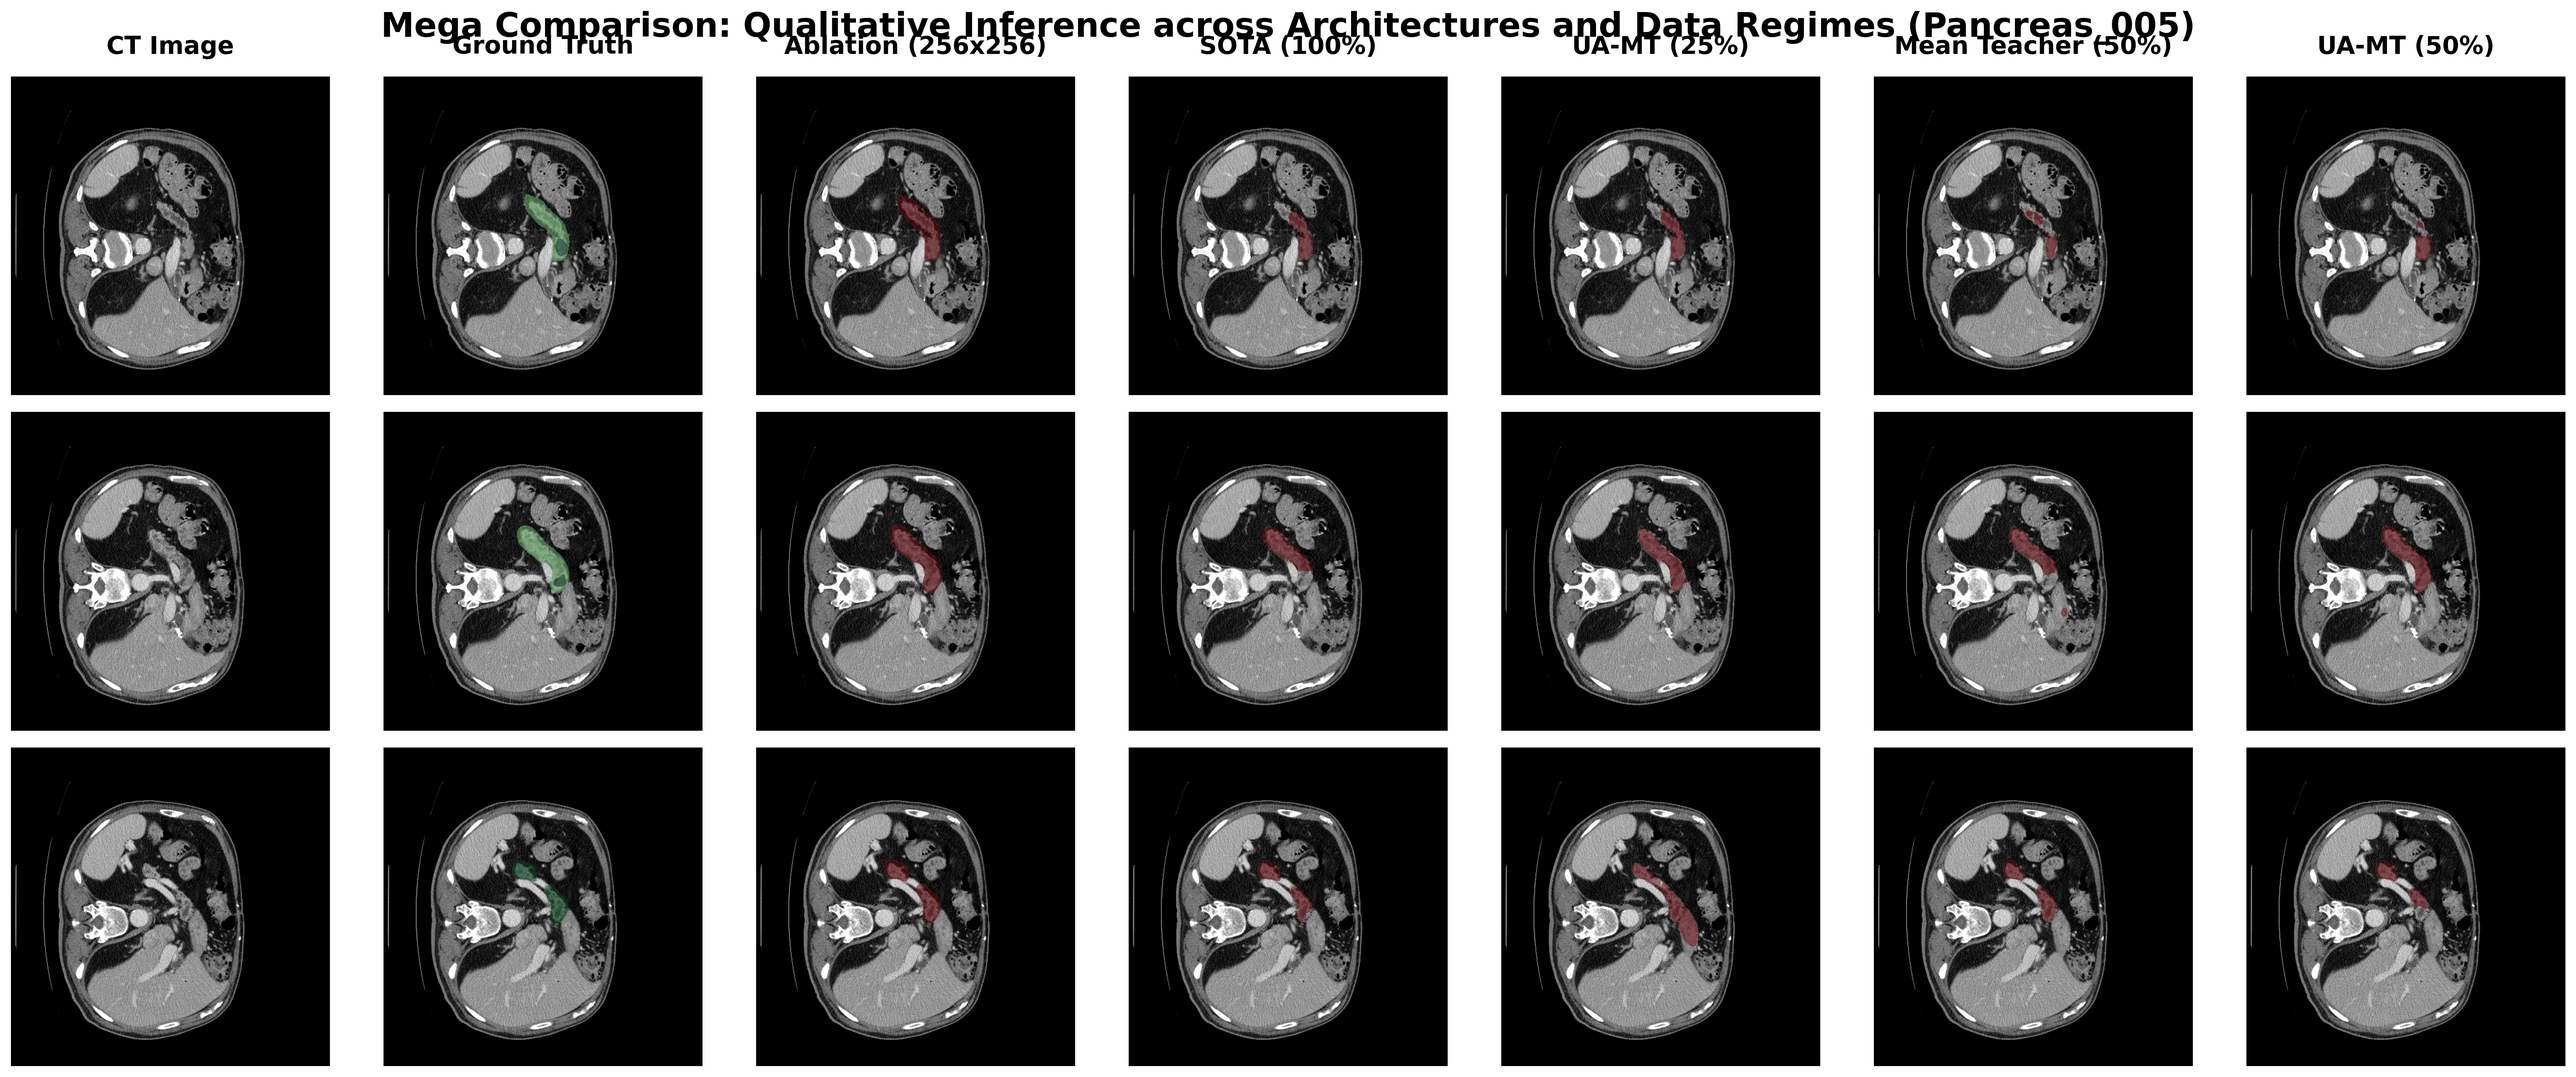
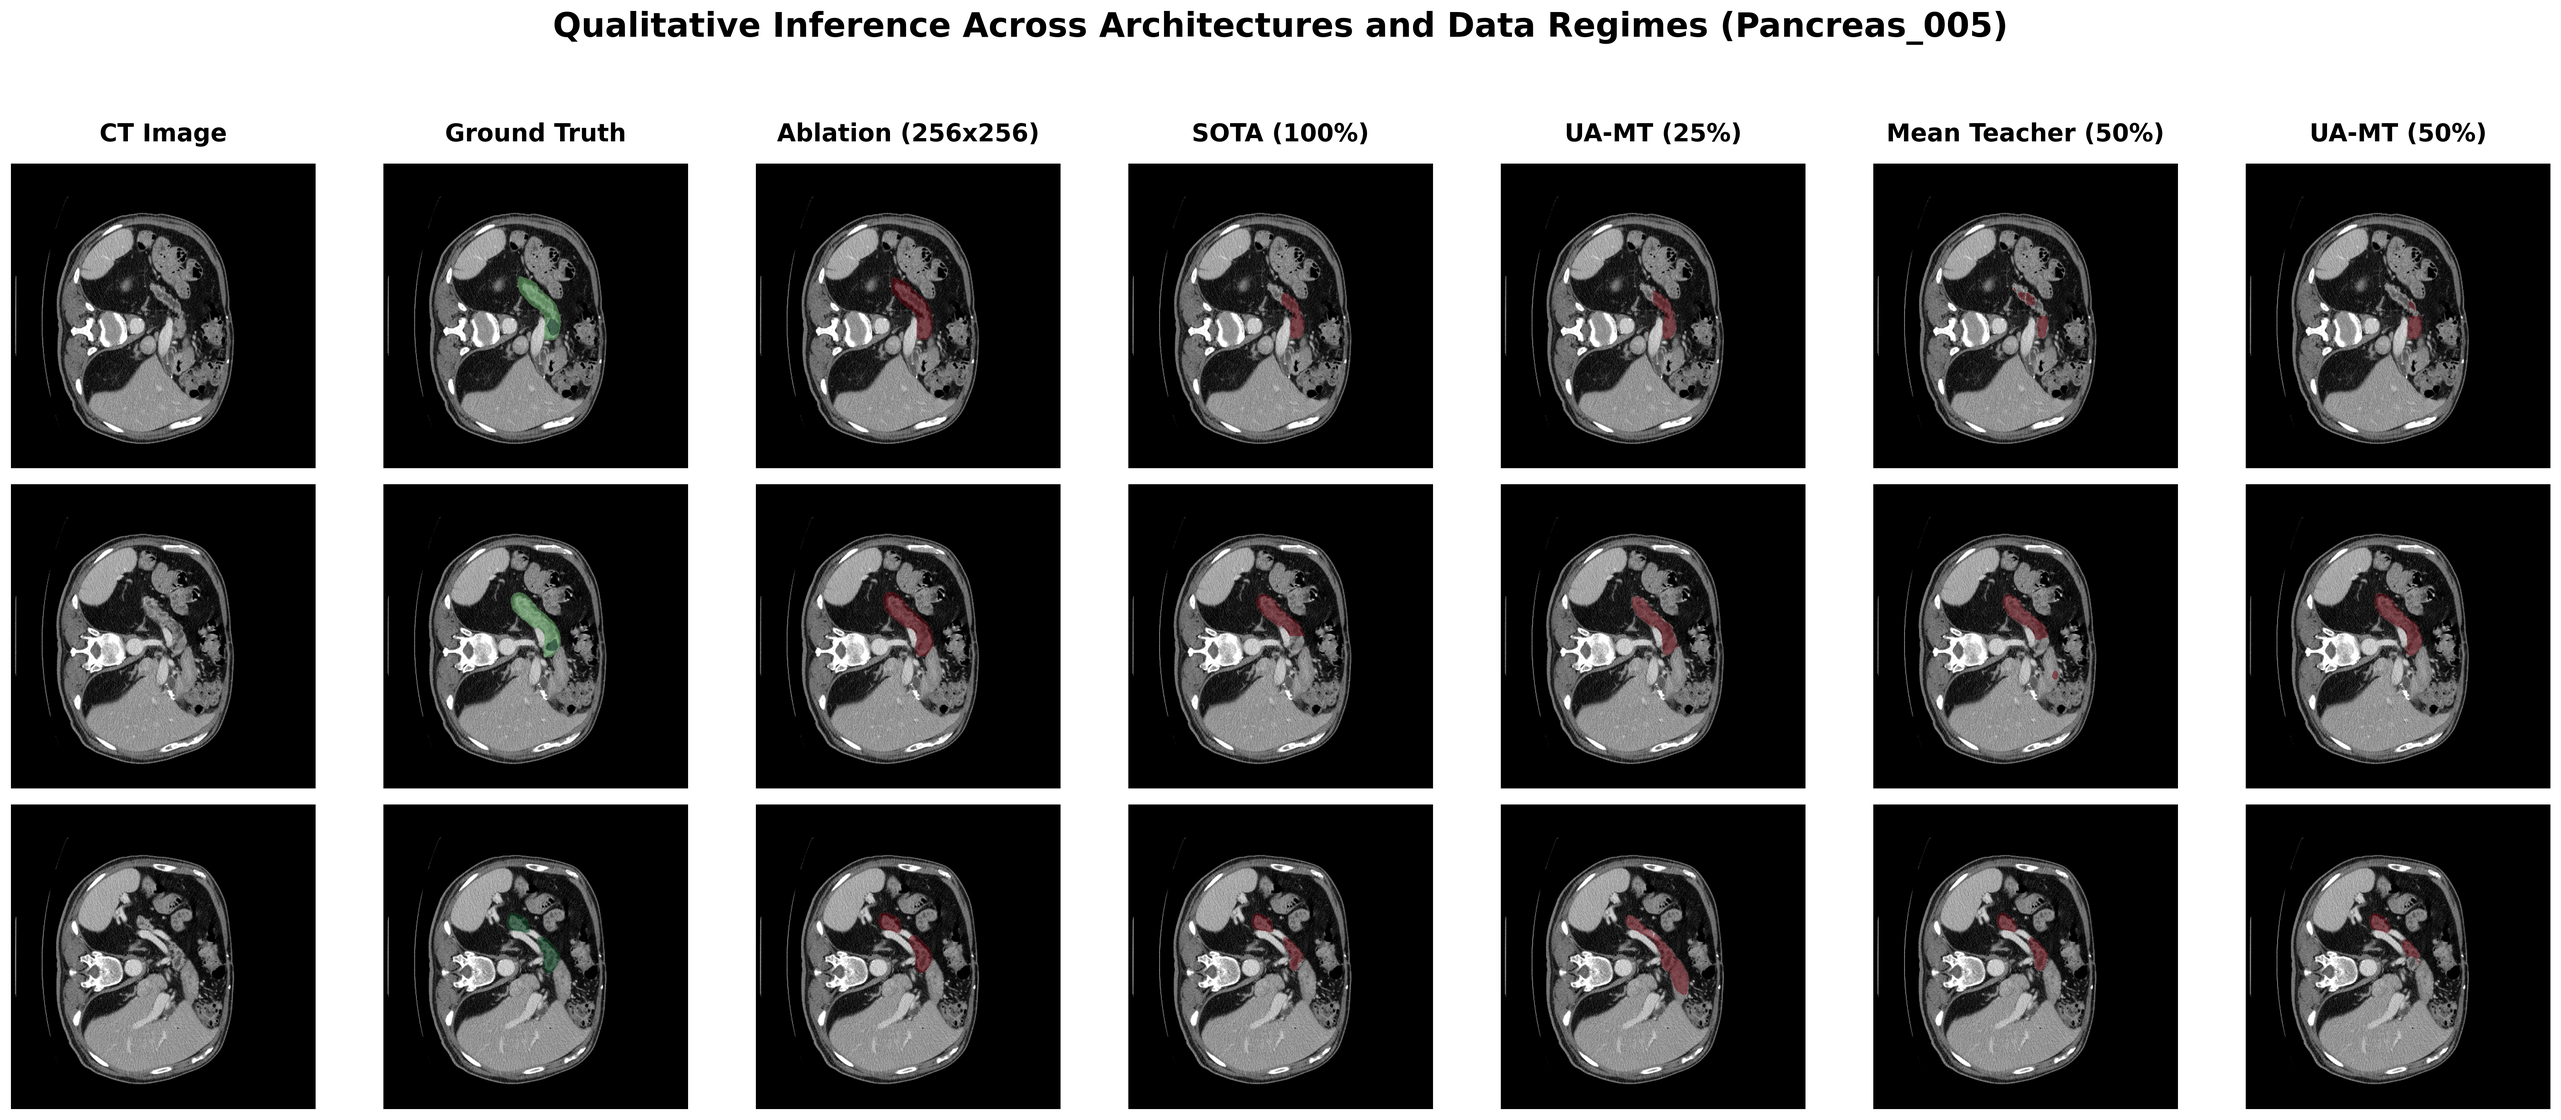
Refine mega plot formatting and truncate SSL curves to epoch 68

diff --git a/baseline/paper/journal_manuscript.tex b/baseline/paper/journal_manuscript.tex
@@ -120,12 +120,12 @@ UA-MT           & \textbf{0.3965}      & \textbf{0.4836}      & \textbf{0.4792} 
 
 These results confirm that UA-MT consistently dominates other SSL approaches, particularly in extremely low-data regimes. At just 10\% labeled data, UA-MT approaches the performance of Mean Teacher at 25\%, effectively halving the required annotation effort. This "doubling of efficiency" is even more pronounced at the 25\% ratio, where the UA-MT model (0.4836 IoU) outperforms the standard Mean Teacher model even when the latter has access to 50\% of the labeled data (0.4571 IoU). This substantial gain is driven by the uncertainty-filtering mechanism, which prevents the student model from over-fitting to the teacher's incorrect predictions in low-contrast regions.
 
-Furthermore, we observed that CPS requires a larger "warm-up" labeled set to stabilize. At 10\% and 25\%, CPS significantly trailed behind UA-MT, as the mutual-supervision between two weakly-initialized networks often leads to representation collapse. Only at 50\% did CPS reach a stable IoU of 0.3997, though it remained inferior to the consistency-based UA-MT framework.
+Furthermore, we observed that CPS requires a larger "warm-up" labeled set to stabilize. At 10\% and 25\%, CPS significantly trailed behind UA-MT, as the mutual-supervision between two weakly-initialized networks often leads to representation collapse. Only at 50\% did CPS reach a stable IoU of 0.3997, though it remained inferior to the consistency-based UA-MT framework. Figure~\ref{fig:ssl_curves} visualizes the learning dynamics of these frameworks. The training curves are presented up to Epoch 68, the point at which our highest-performing UA-MT model reached optimal convergence before triggering early-stopping criteria based on allocated computational time limits.
 
 \begin{figure}[h]
 \centering
 \includegraphics[width=\columnwidth]{images/ssl_50_iou_comparison.png}
-\caption{Validation IoU curves for the 50\% labeled data regime. UA-MT demonstrates rapid convergence and superior stability compared to Mean Teacher and Cross-Pseudo Supervision.}
+\caption{Validation IoU curves for the 50\% labeled data regime (shown up to Epoch 68, reflecting the optimal convergence point for the champion UA-MT model). UA-MT demonstrates rapid convergence and superior stability compared to Mean Teacher and Cross-Pseudo Supervision.}
 \label{fig:ssl_curves}
 \end{figure}
 

diff --git a/overleaf_export/journal_manuscript.tex b/overleaf_export/journal_manuscript.tex
@@ -120,12 +120,12 @@ UA-MT           & \textbf{0.3965}      & \textbf{0.4836}      & \textbf{0.4792} 
 
 These results confirm that UA-MT consistently dominates other SSL approaches, particularly in extremely low-data regimes. At just 10\% labeled data, UA-MT approaches the performance of Mean Teacher at 25\%, effectively halving the required annotation effort. This "doubling of efficiency" is even more pronounced at the 25\% ratio, where the UA-MT model (0.4836 IoU) outperforms the standard Mean Teacher model even when the latter has access to 50\% of the labeled data (0.4571 IoU). This substantial gain is driven by the uncertainty-filtering mechanism, which prevents the student model from over-fitting to the teacher's incorrect predictions in low-contrast regions.
 
-Furthermore, we observed that CPS requires a larger "warm-up" labeled set to stabilize. At 10\% and 25\%, CPS significantly trailed behind UA-MT, as the mutual-supervision between two weakly-initialized networks often leads to representation collapse. Only at 50\% did CPS reach a stable IoU of 0.3997, though it remained inferior to the consistency-based UA-MT framework.
+Furthermore, we observed that CPS requires a larger "warm-up" labeled set to stabilize. At 10\% and 25\%, CPS significantly trailed behind UA-MT, as the mutual-supervision between two weakly-initialized networks often leads to representation collapse. Only at 50\% did CPS reach a stable IoU of 0.3997, though it remained inferior to the consistency-based UA-MT framework. Figure~\ref{fig:ssl_curves} visualizes the learning dynamics of these frameworks. The training curves are presented up to Epoch 68, the point at which our highest-performing UA-MT model reached optimal convergence before triggering early-stopping criteria based on allocated computational time limits.
 
 \begin{figure}[h]
 \centering
 \includegraphics[width=\columnwidth]{images/ssl_50_iou_comparison.png}
-\caption{Validation IoU curves for the 50\% labeled data regime. UA-MT demonstrates rapid convergence and superior stability compared to Mean Teacher and Cross-Pseudo Supervision.}
+\caption{Validation IoU curves for the 50\% labeled data regime (shown up to Epoch 68, reflecting the optimal convergence point for the champion UA-MT model). UA-MT demonstrates rapid convergence and superior stability compared to Mean Teacher and Cross-Pseudo Supervision.}
 \label{fig:ssl_curves}
 \end{figure}
 

diff --git a/baseline/code/plot_ssl_50_curves.py b/baseline/code/plot_ssl_50_curves.py
@@ -11,9 +11,15 @@ def main():
 
     plt.figure(figsize=(10, 6))
     
+    # We truncate all plots to 68 epochs since UA-MT reached its peak and was 
+    # interrupted by the cluster time limit at Epoch 68.
+    MAX_EPOCH = 68
+    
     for label, path in paths.items():
         if os.path.exists(path):
             df = pd.read_csv(path)
+            # Truncate to MAX_EPOCH
+            df = df[df['epoch'] <= MAX_EPOCH]
             # Find the correct column name for validation IoU
             val_col = [c for c in df.columns if 'val_io_u' in c or 'val_iou' in c][0]
             plt.plot(df['epoch'], df[val_col], label=label, linewidth=2)
@@ -21,6 +27,7 @@ def main():
     plt.title('Validation IoU Comparison: SSL at 50% Labeled Data', fontsize=16, pad=20)
     plt.xlabel('Epoch', fontsize=14)
     plt.ylabel('Validation IoU', fontsize=14)
+    plt.xlim(0, MAX_EPOCH)
     plt.legend(fontsize=12)
     plt.grid(True, linestyle='--', alpha=0.7)
     

diff --git a/baseline/code/plot_mega_inference.py b/baseline/code/plot_mega_inference.py
@@ -125,7 +125,7 @@ def main():
     ]
     
     fig, axes = plt.subplots(len(slice_indices), len(columns), figsize=(24, 10))
-    fig.suptitle("Mega Comparison: Qualitative Inference across Architectures and Data Regimes (Pancreas_005)", fontsize=22, fontweight='bold', y=0.98)
+    fig.suptitle("Qualitative Inference Across Architectures and Data Regimes (Pancreas_005)", fontsize=22, fontweight='bold', y=1.02)
     
     for row, s_idx in enumerate(slice_indices):
         if vol_lbl.shape[0] == 512 and vol_lbl.shape[1] == 512:
@@ -162,7 +162,7 @@ def main():
             ax.axis('off')
 
     plt.tight_layout()
-    plt.subplots_adjust(top=0.92)  # Give space for the suptitle
+    plt.subplots_adjust(top=0.88)  # Give space for the suptitle
     
     os.makedirs("baseline/logs/verification/plots", exist_ok=True)
     out_path = "baseline/logs/verification/plots/mega_inference_comparison_005.png"
